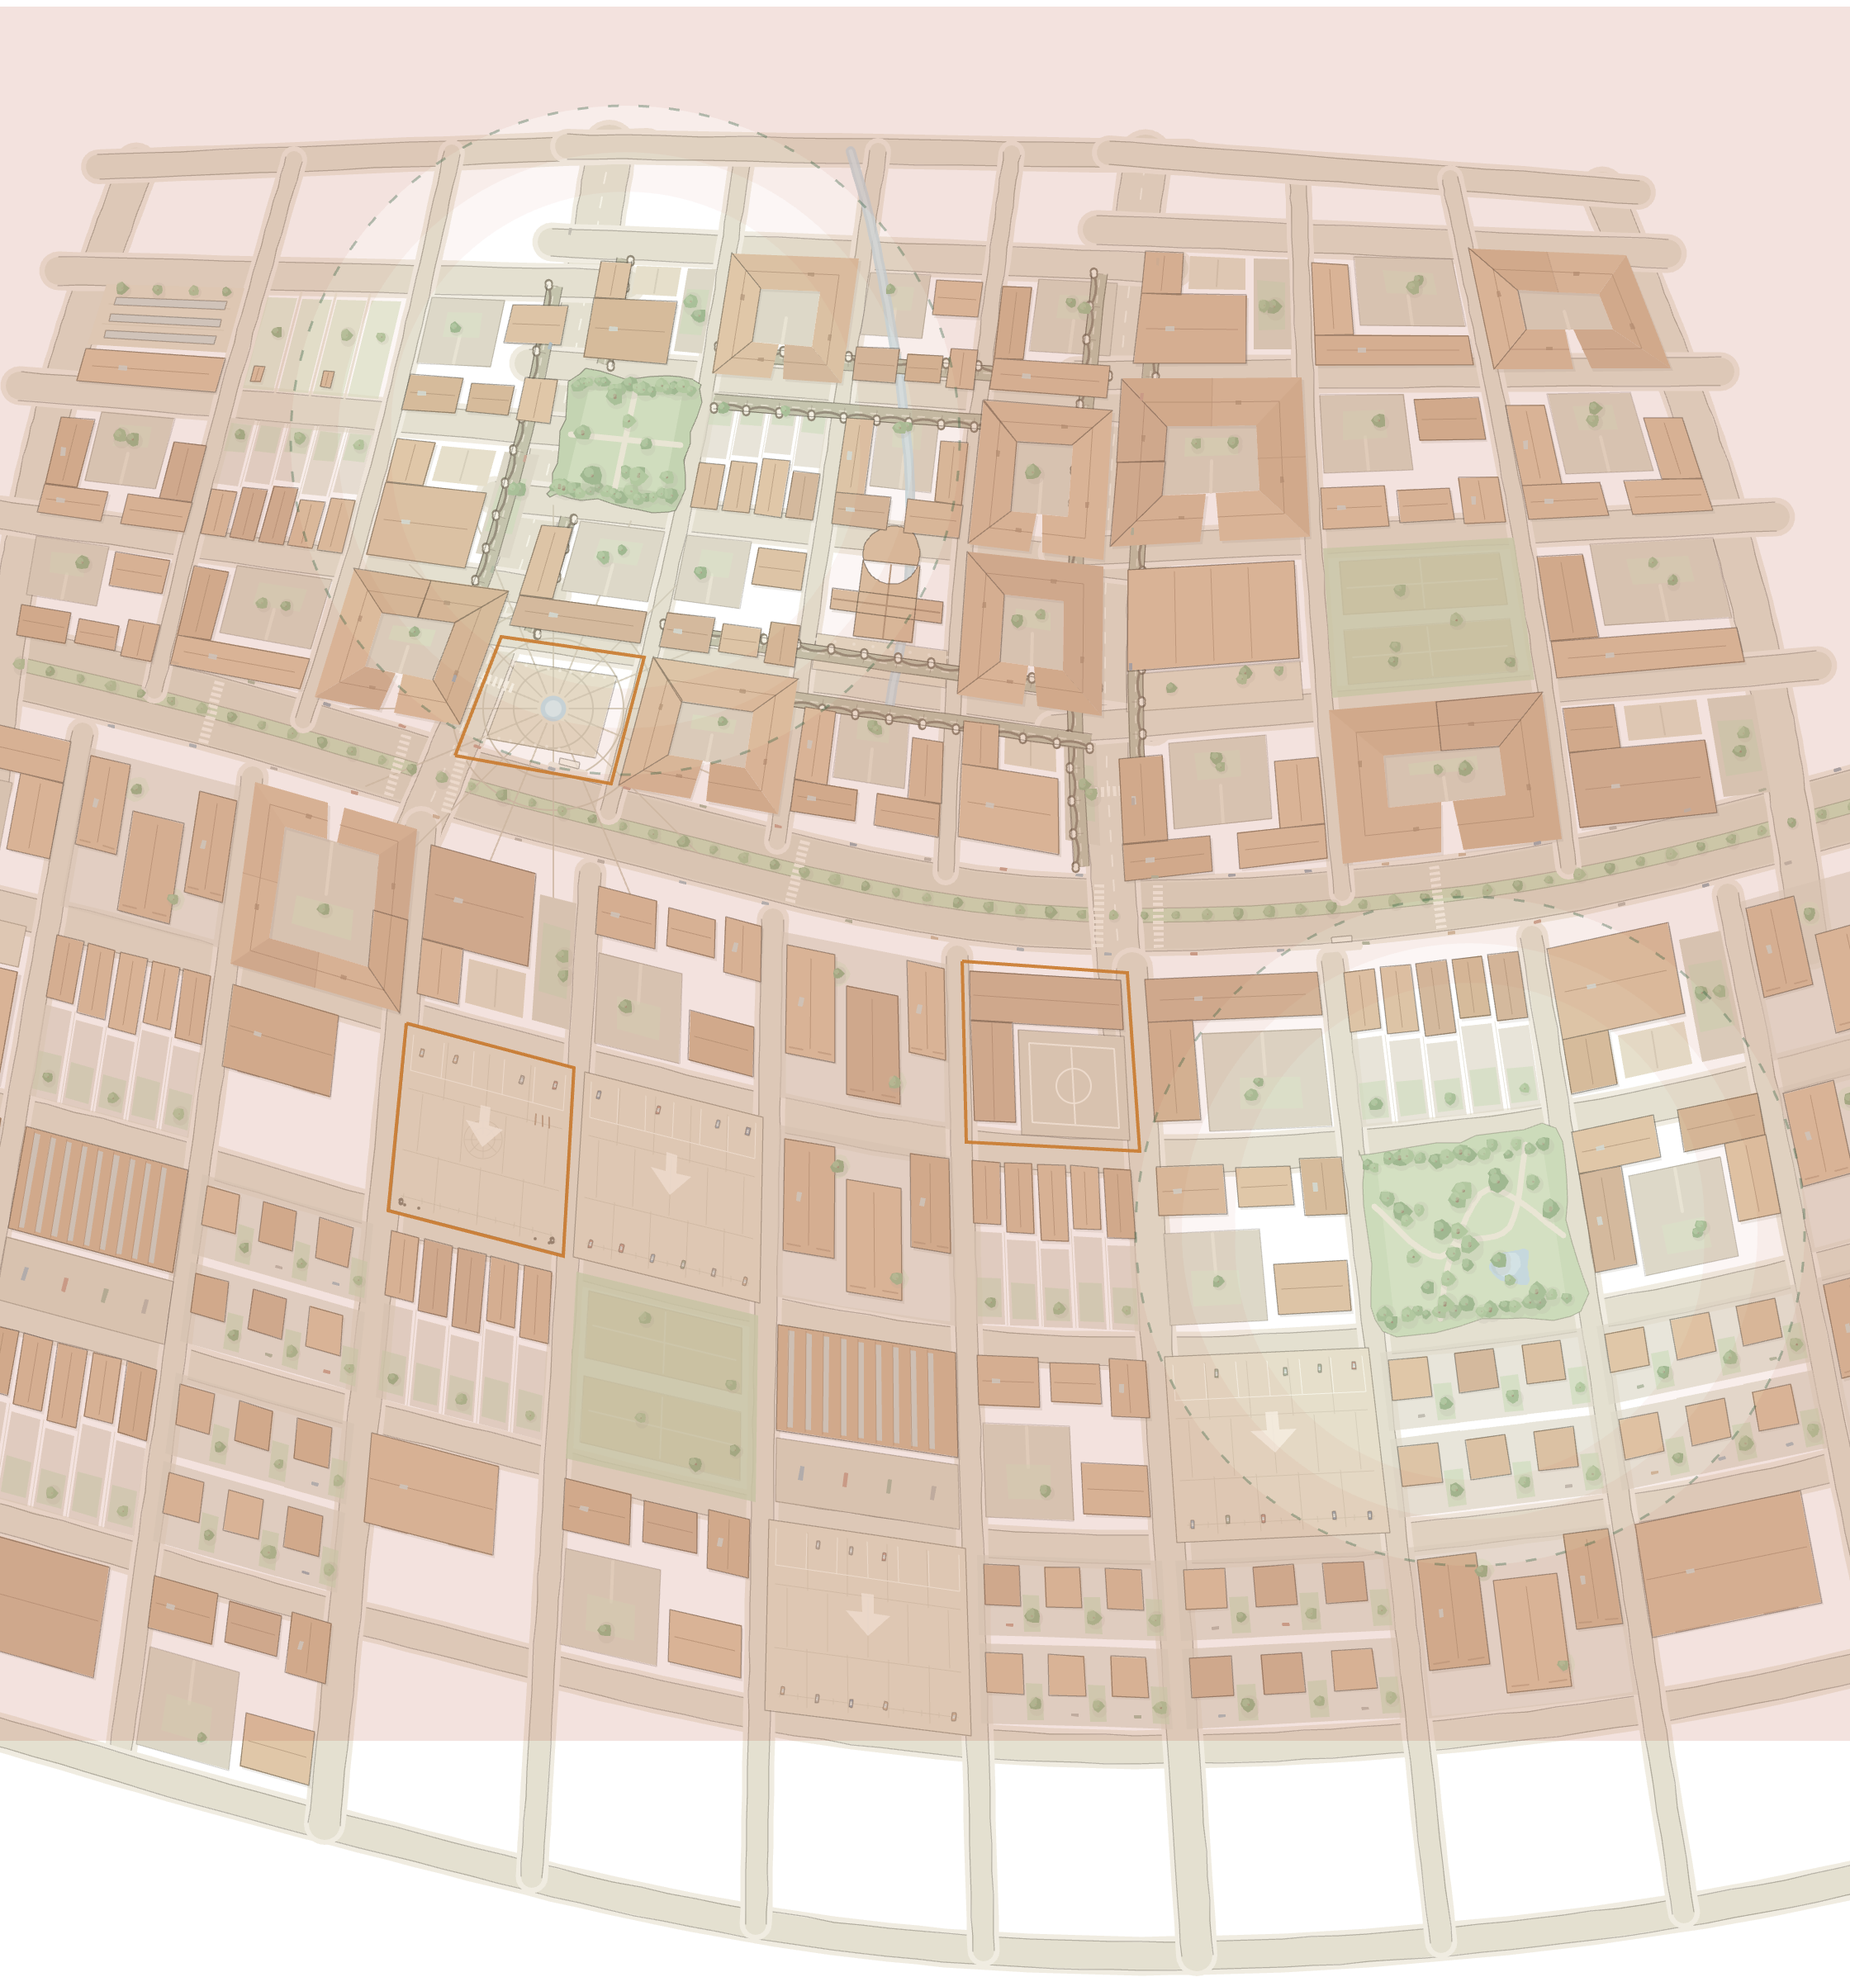
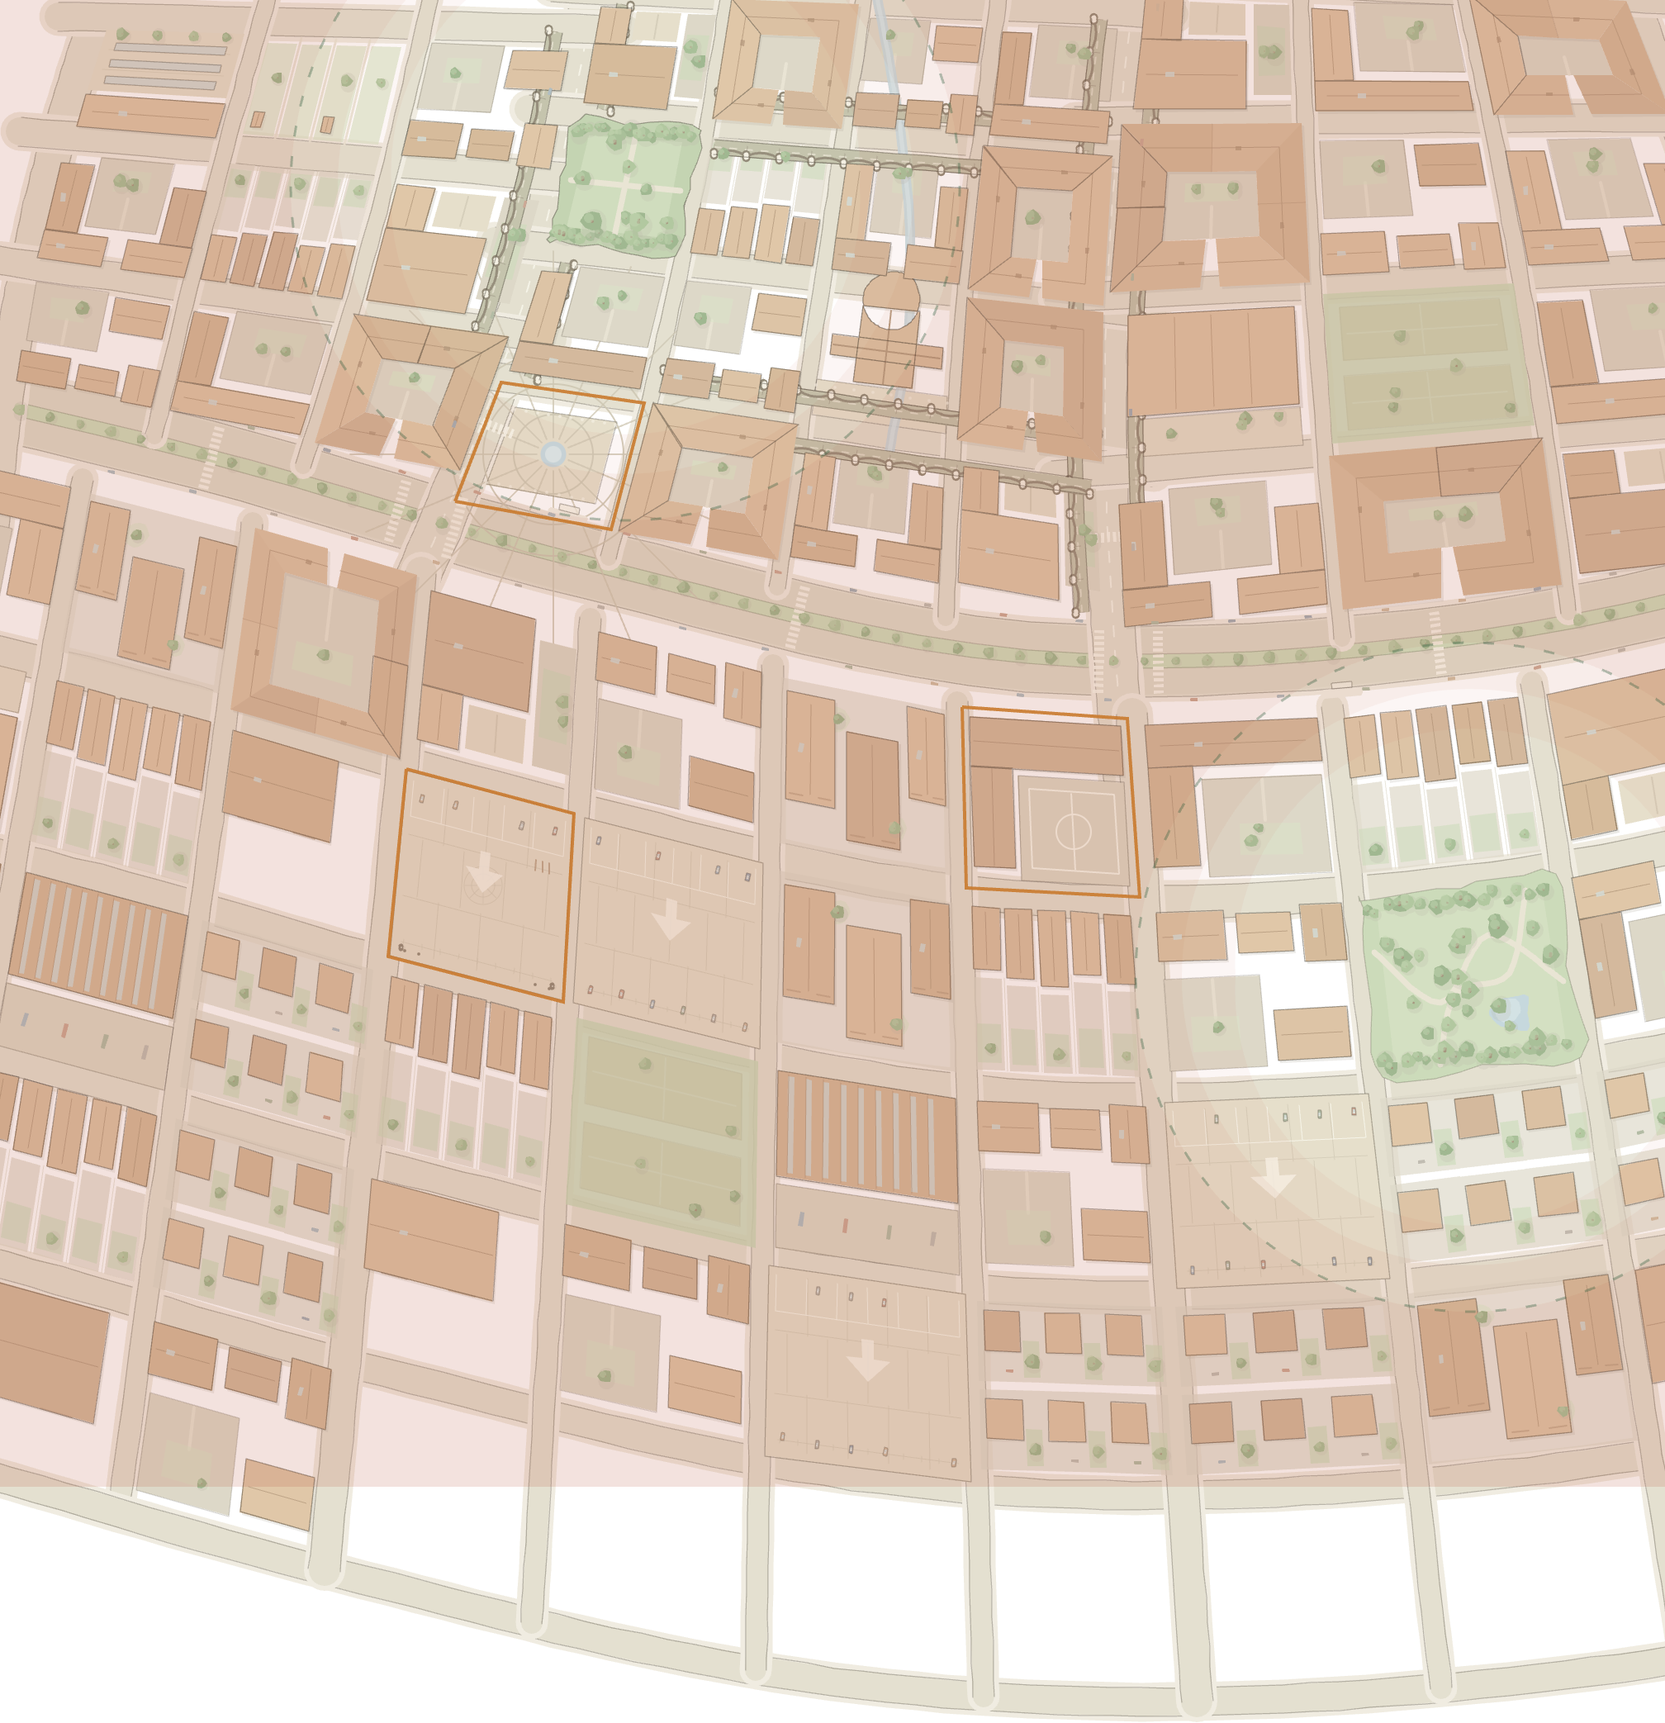
performance citybuild iphone

diff --git a/talea-storytelling/src/components/story/CityPlanScene.jsx b/talea-storytelling/src/components/story/CityPlanScene.jsx
@@ -524,14 +524,13 @@ function MobileIPhoneCanvasPlan({ composite, surfaceEpoch, onLoad, onError }) {
     let sourceImage = null;
     let objectUrl = null;
     let retryTimer = null;
+    let commitRaf = null;
     let live = true;
 
     const pixelWidth =
-      composite.pixelWidth ??
       cityPlanMobileComposites.iphoneCanvas?.width ??
       cityPlanMobileComposites.canvas.width;
     const pixelHeight =
-      composite.pixelHeight ??
       cityPlanMobileComposites.iphoneCanvas?.height ??
       cityPlanMobileComposites.canvas.height;
     // A boundary release deliberately shrinks the backing store to 1x1. If a
@@ -597,10 +596,24 @@ function MobileIPhoneCanvasPlan({ composite, surfaceEpoch, onLoad, onError }) {
             // The old beat remains painted until this synchronous replacement.
             // There is never an old/new pair of displayed raster elements.
             context.clearRect(0, 0, canvas.width, canvas.height);
-            context.drawImage(sourceImage, 0, 0, canvas.width, canvas.height);
+            const canvasSpec =
+              cityPlanMobileComposites.iphoneCanvas ??
+              cityPlanMobileComposites.canvas;
+            const sourceStyle = composite.style ?? canvasSpec;
+            context.drawImage(
+              sourceImage,
+              Number(sourceStyle.left) - Number(canvasSpec.left),
+              Number(sourceStyle.top) - Number(canvasSpec.top),
+            );
             canvas.dataset.mobileMapCompositeBeat = String(composite.beat);
             releaseTransientSource();
-            onLoad(composite.beat);
+            // Give WebKit one presentation frame to discard the transient
+            // decoder surface before React mounts the beat's SVG vignette.
+            // The newly painted map is already visible during this frame.
+            commitRaf = window.requestAnimationFrame(() => {
+              commitRaf = null;
+              if (isCurrent()) onLoad(composite.beat);
+            });
           };
           sourceImage.onerror = () => {
             if (!isCurrent()) {
@@ -636,6 +649,7 @@ function MobileIPhoneCanvasPlan({ composite, surfaceEpoch, onLoad, onError }) {
     return () => {
       live = false;
       if (retryTimer !== null) window.clearTimeout(retryTimer);
+      if (commitRaf !== null) window.cancelAnimationFrame(commitRaf);
       controller.abort();
       releaseTransientSource();
       if (controllerRef.current === controller) controllerRef.current = null;
@@ -688,17 +702,14 @@ function MobileIPhoneCanvasPlan({ composite, surfaceEpoch, onLoad, onError }) {
         ref={canvasRef}
         className="plan-mobile-map-state plan-mobile-map-base plan-mobile-map-canvas is-active"
         width={
-          composite?.pixelWidth ??
           cityPlanMobileComposites.iphoneCanvas?.width ??
           cityPlanMobileComposites.canvas.width
         }
         height={
-          composite?.pixelHeight ??
           cityPlanMobileComposites.iphoneCanvas?.height ??
           cityPlanMobileComposites.canvas.height
         }
         style={
-          composite?.style ??
           mobileRasterStyle(
             cityPlanMobileComposites.iphoneCanvas ??
               cityPlanMobileComposites.canvas,

diff --git a/talea-storytelling/scripts/generate_cityplan_mobile_composites.py b/talea-storytelling/scripts/generate_cityplan_mobile_composites.py
@@ -31,11 +31,27 @@ OUTPUT_PREFIX = "cityplan-mobile-composite-beat-"
 IPHONE_OUTPUT_PREFIX = "cityplan-iphone-composite-beat-"
 
 # All phone and phone-landscape camera paths stay inside this source-space
-# envelope, including the previous raster that can remain visible while a
-# skipped/latest beat is fetched. Cropping is pixel-for-pixel (no resize), so
-# the perceived map and camera framing are unchanged while each decoded iPhone
-# surface drops from 3530x2394 to 2240x2394.
+# envelope. It is the single persistent Canvas2D backing store used on iPhone.
+# Cropping is pixel-for-pixel (no resize), so the perceived map and camera
+# framing are unchanged while the decoded surface drops from 3530x2394 to
+# 2240x2394.
 IPHONE_CANVAS = (-64, -308, 2240, 2394)
+
+# Each transient decode only contains the source-space envelope reachable by
+# that beat (including its entry camera from the previous beat), with a safety
+# margin. The source is drawn at its original offset into IPHONE_CANVAS; it is
+# never scaled. This matters most around costruisce/nonuno, where a uniform
+# 2240x2394 source would otherwise briefly coexist with the 2240x2394 canvas.
+# Values deliberately remain conservative for portrait and landscape iPhones.
+IPHONE_BEAT_CROPS = (
+    (-64, 0, 2016, 2086),
+    (-64, 0, 2016, 2086),
+    (-64, 160, 1664, 1926),
+    (-64, -308, 1888, 2394),
+    (-64, -308, 2240, 2394),
+    (0, -308, 2176, 2394),
+    (32, -308, 2144, 2394),
+)
 
 
 def read_beat_ids() -> list[str]:
@@ -182,7 +198,9 @@ def main() -> None:
             }
         )
 
-        iphone_x, iphone_y, iphone_width, iphone_height = IPHONE_CANVAS
+        if beat >= len(IPHONE_BEAT_CROPS):
+            raise RuntimeError(f"Missing iPhone crop for beat {beat}")
+        iphone_x, iphone_y, iphone_width, iphone_height = IPHONE_BEAT_CROPS[beat]
         iphone_box = (
             iphone_x - canvas_x,
             iphone_y - canvas_y,
